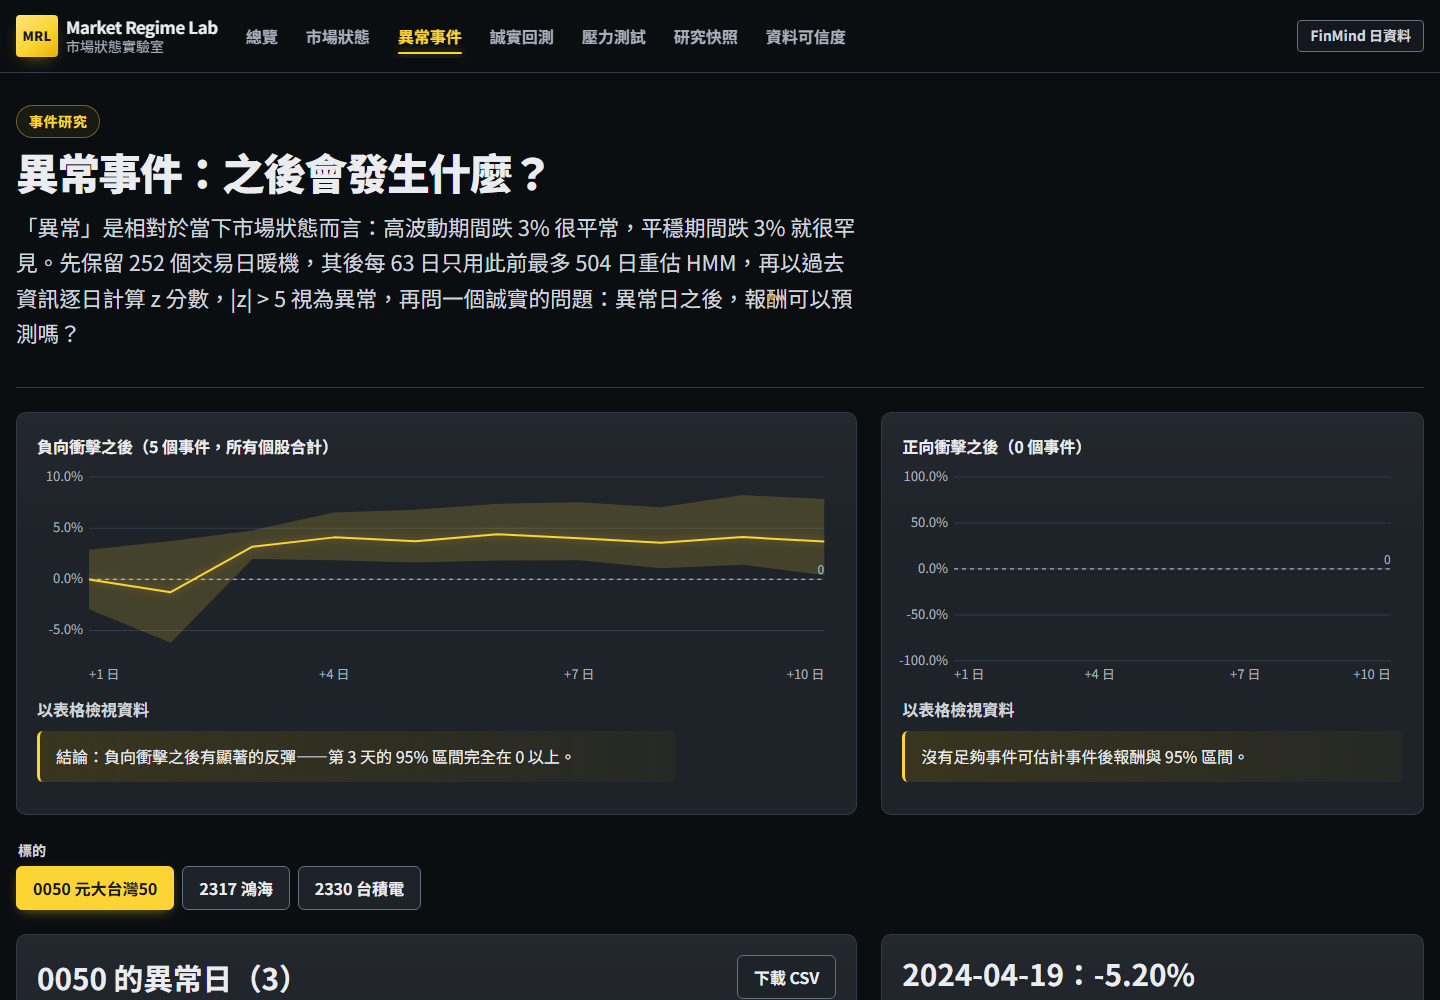
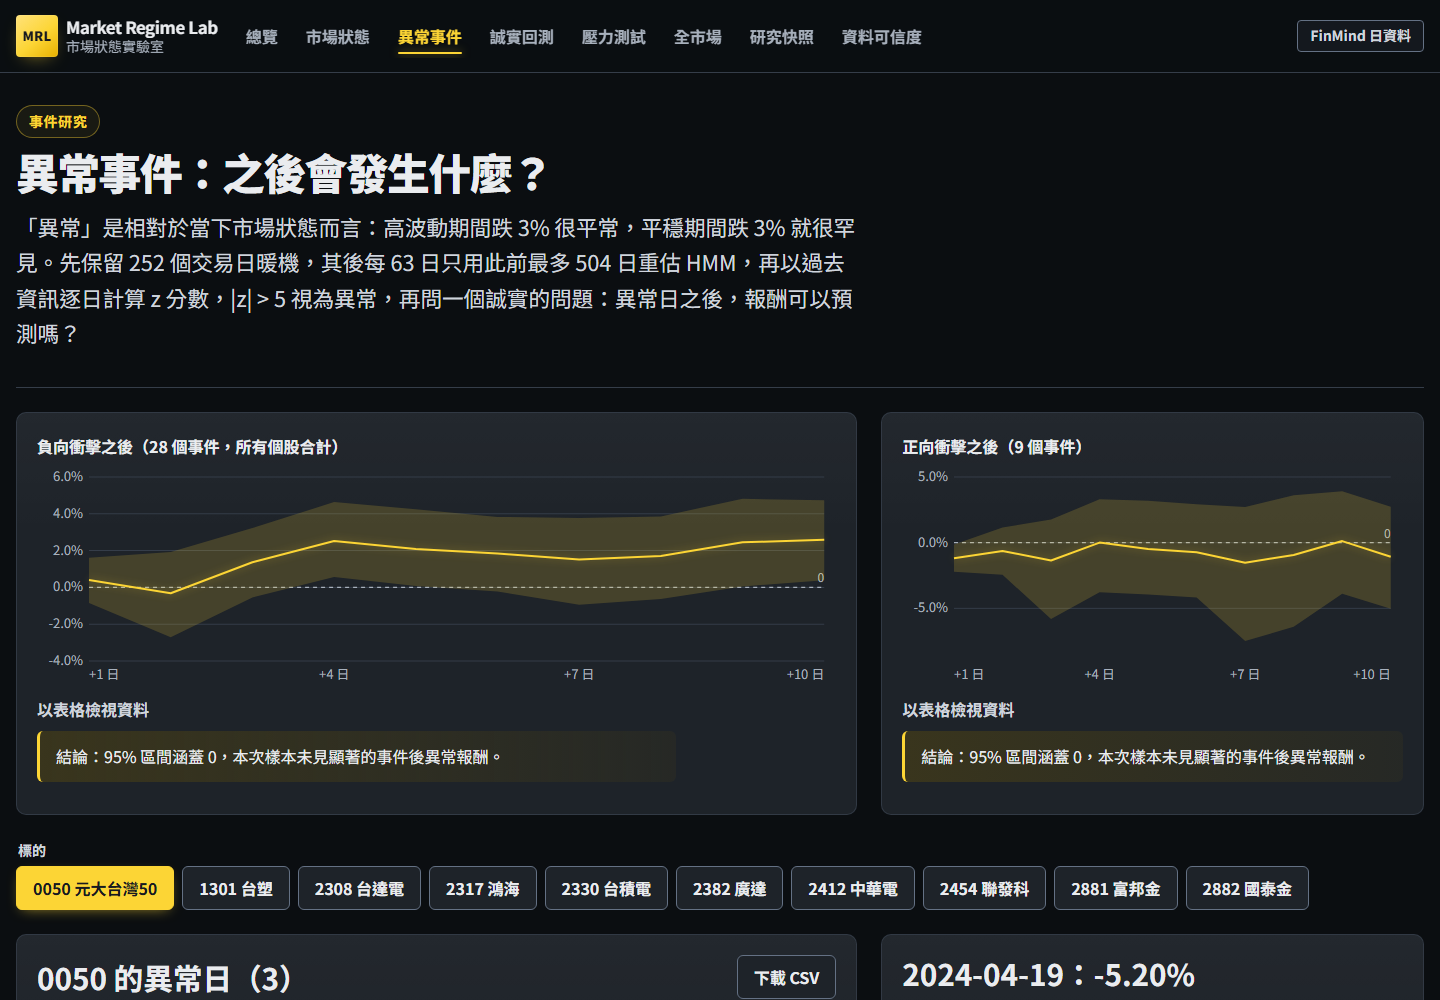
docs: showcase the market-wide page and TWSE snapshot in the README
Recapture every screenshot from the live site, add the exchange snapshot and
the 全市場 page to the gallery, and summarise sources and schedules.

diff --git a/README.md b/README.md
@@ -3,43 +3,51 @@
 [![Quality Gate](https://github.com/Lily09-project/market-anomaly-dashboard/actions/workflows/quality.yml/badge.svg?branch=main)](https://github.com/Lily09-project/market-anomaly-dashboard/actions/workflows/quality.yml)
 [![Quality & Security](https://github.com/Lily09-project/market-anomaly-dashboard/actions/workflows/security.yml/badge.svg?branch=main)](https://github.com/Lily09-project/market-anomaly-dashboard/actions/workflows/security.yml)
 
-用臺股歷史行情探索市場狀態、異常事件、回測風險與壓力情境的互動式研究網站。研究用途，不構成投資建議。
+用臺股歷史行情探索市場狀態、異常事件、回測風險與壓力情境的互動式研究網站，另附證交所全市場盤後一覽。研究用途，不構成投資建議。
 
 **[開啟線上展示](https://lily09-project.github.io/market-anomaly-dashboard/)**
 
-![Market Regime Lab 桌面畫面](docs/screenshots/pages-desktop.png)
+| 桌面版 | 手機版 |
+| --- | --- |
+| ![Market Regime Lab 桌面畫面](docs/screenshots/pages-desktop.png) | ![Market Regime Lab 手機畫面](docs/screenshots/pages-mobile.png) |
 
 ## 功能
 
-- 市場狀態偵測與異常事件研究
-- 樣本內／樣本外回測與過度擬合檢查
-- 可取消的瀏覽器端風險模擬
-- 研究快照匯出、比對與完整性驗證
-- 全市場盤後一覽：約 1,300 多檔上市股票與 ETF，可搜尋、排序與篩選
-
-## 正式資料
-
-價格分析依官方公告還原 0050 的 2025-06-18 分割（1 拆 4）；其他標的若出現超過 20% 的單日變動（多半是未處理的分割或減資），建置會直接停止，不會把它當成崩跌發布。未再投入現金股息，屬價格報酬而非含息總報酬。原始 OHLCV 與分析輸入分開保留，來源列於網站「資料可信度」。
-
-正式網站使用 FinMind 公開 API 的臺股歷史日行情（0050 與台積電、鴻海、聯發科、台達電、廣達、富邦金、國泰金、中華電、台塑共 10 檔），經驗證後以靜態快照發布；不是即時報價。免費方案不帶 token 每小時最多 300 次，限非商業用途並須標示來源；詳見 [FinMind 官方方案與授權](https://finmind.github.io/Pricing/)。
-
-首頁另有「證交所盤後快照」，資料來自免金鑰的 [證交所 OpenAPI](https://openapi.twse.com.tw/)，依[政府資料開放授權條款](https://data.gov.tw/license)使用。內容包含最新一個交易日的收盤價、成交值、本益比、殖利率、融資融券餘額，以及當月加權指數，並以證交所收盤價交叉驗證 FinMind 的未還原收盤價。同一批資料也用來產生「全市場」頁，列出所有上市證券最新一個交易日的收盤、漲跌、成交值、本益比、殖利率、淨值比與融資增減。OpenAPI 只提供最新資料，所以這區只是補充快照，不納入歷史分析；取得失敗時網站會標示「未取得」，不會因此停止發布價格分析。
-
-固定種子的合成資料只用於本機研究、方法測試與 PR 預覽。正式 Pages 與 Docker 建置都必須以嚴格模式取得並驗證 FinMind 公開資料；來源失敗即停止，不會以合成資料替代。Docker 內含建置當時的靜態快照，執行中的網站不會即時連外。
-
-## 技術
-
-Python、NumPy、React、TypeScript、Vite、Web Worker；GitHub Pages 提供靜態展示，另有非 root Docker 映像。介面採深色金黑研究工作區，設計原則見 [DESIGN.md](DESIGN.md)。
+- **10 檔深度分析**：0050 與台積電、鴻海、聯發科、台達電、廣達、富邦金、國泰金、中華電、台塑
+  - 市場狀態偵測（隱藏馬可夫模型）與異常事件研究
+  - 樣本內／樣本外回測與過度擬合檢查（PBO、Deflated Sharpe）
+  - 可取消的瀏覽器端壓力測試
+- **證交所盤後快照**：收盤價、成交值、本益比、殖利率、融資融券餘額與當月加權指數，並與 FinMind 收盤價交叉驗證
+- **全市場盤後一覽**：約 1,300 多檔上市股票與 ETF，可搜尋、排序與篩選，條件保留在網址中
+- **可驗證**：每個資料檔都在瀏覽器以 SHA-256 對照 manifest；研究快照可匯出、比對
 
 ## 畫面
 
-| 市場狀態 | 異常事件 |
+| 證交所盤後快照 | 全市場盤後一覽 |
 | --- | --- |
+| ![證交所盤後快照](docs/screenshots/twse-snapshot.png) | ![全市場盤後一覽](docs/screenshots/market.png) |
+| **市場狀態** | **異常事件** |
 | ![市場狀態畫面](docs/screenshots/regimes.png) | ![異常事件畫面](docs/screenshots/events.png) |
 | **誠實回測** | **壓力測試** |
 | ![誠實回測畫面](docs/screenshots/backtest.png) | ![壓力測試畫面](docs/screenshots/stress.png) |
 
-截圖取自正式網站的 FinMind 歷史快照。
+截圖取自正式網站的 FinMind 歷史快照與證交所盤後資料。
+
+## 正式資料
+
+| 來源 | 內容 | 更新 |
+| --- | --- | --- |
+| [FinMind](https://finmind.github.io/Pricing/) 公開 API（免 token） | 10 檔 2021 年起的歷史日行情，供所有分析使用 | 平日台北時間 22:30 |
+| [證交所 OpenAPI](https://openapi.twse.com.tw/)（免金鑰） | 最新一個交易日的盤後資料，涵蓋所有上市證券 | 同上 |
+
+- 價格分析依官方公告還原 0050 的 2025-06-18 分割（1 拆 4）；其他標的若出現超過 20% 的單日變動（多半是未處理的分割或減資），建置會直接停止，不會把它當成崩跌發布。未再投入現金股息，屬價格報酬而非含息總報酬。
+- FinMind 免費方案不帶 token 每小時最多 300 次，限非商業用途並須標示來源。證交所資料依[政府資料開放授權條款](https://data.gov.tw/license)使用。
+- 證交所 OpenAPI 只提供最新資料，所以盤後快照與全市場頁不納入歷史分析；取得失敗時網站會標示「未取得」，不會因此停止發布價格分析。
+- 固定種子的合成資料只用於本機研究、方法測試與 PR 預覽。正式 Pages 與 Docker 建置都必須以嚴格模式取得並驗證 FinMind 公開資料；來源失敗即停止，不會以合成資料替代。網站都是靜態快照，不是即時報價。
+
+## 技術
+
+Python、NumPy、React、TypeScript、Vite、Web Worker；GitHub Pages 提供靜態展示，另有非 root Docker 映像。介面採深色金黑研究工作區，設計原則見 [DESIGN.md](DESIGN.md)。
 
 ## 本機執行與驗證
 
